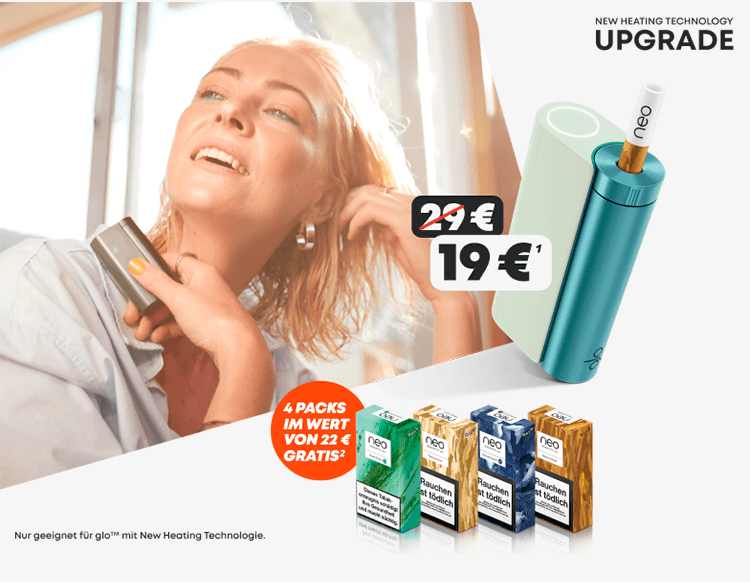
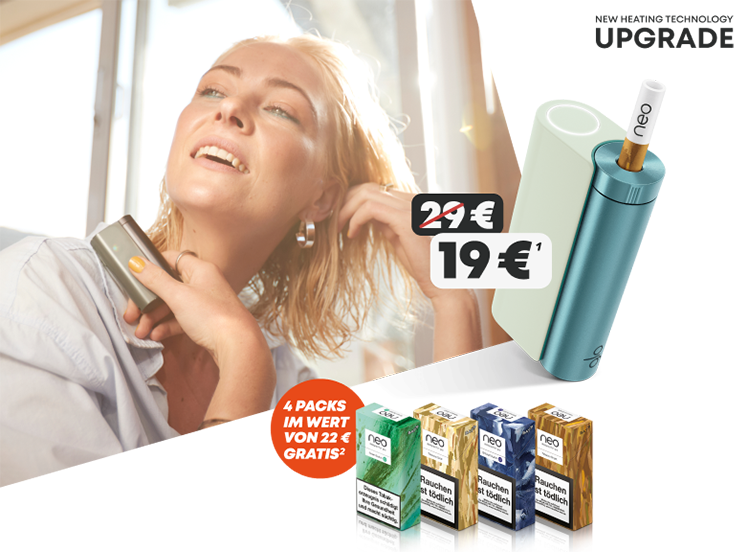
feat: change promo-bg image

diff --git a/index.html b/index.html
@@ -306,7 +306,7 @@
         <div class="es-promo__wrapper">
           <img
             class="es-promo__image"
-            src="https://estorelabs.github.io/RC---220831-BAT-02-X2-DE-GENERIC/img/promo-bg.png"
+            src="./img/promo-bg.png"
             alt="X2 promo"
           />
           <div class="es-promo__container">
